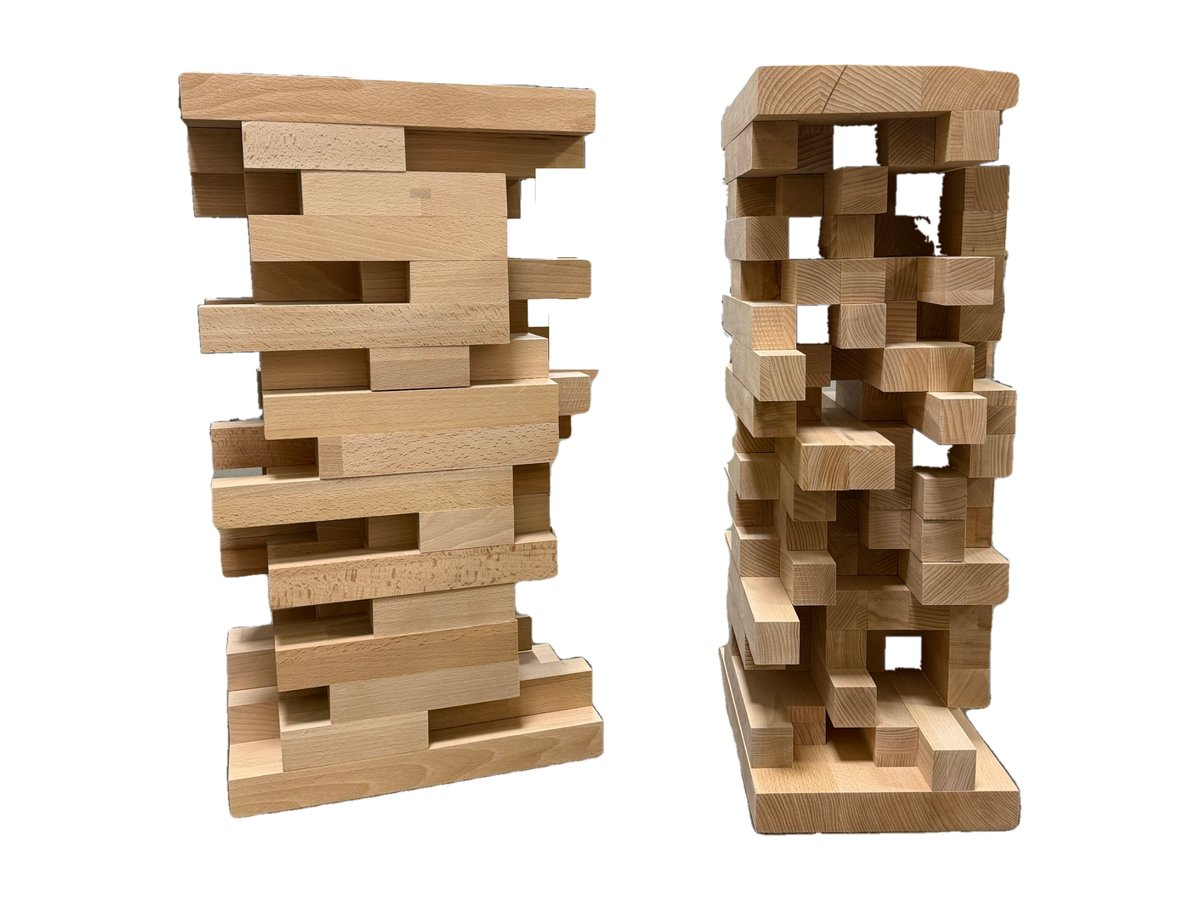
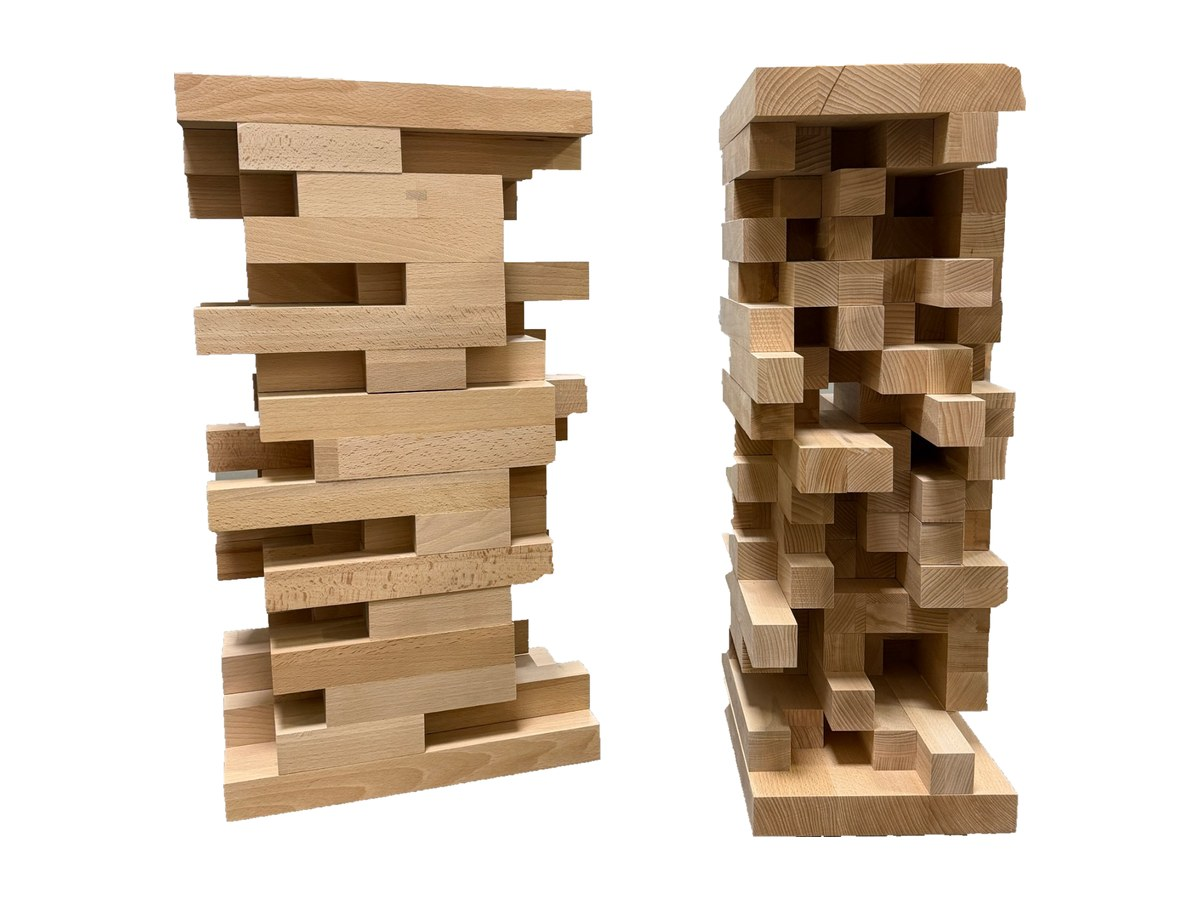
Stand Stile Pannello: anteprima scontornata di nuovo, contorni netti
Claude-Session: https://claude.ai/code/session_015wvKsictn1Z6RtpeGcB9hV

diff --git a/index.html b/index.html
@@ -178,7 +178,7 @@
       <span class="more">Scopri Tangerine</span></div>
     </a>
     <a class="card" href="stand-stile-pannello.html">
-      <div class="pic"><img src="images/stile-pannello-card.jpg" alt="Stand per diffusori Stile Pannello in Faggio massello visto di fronte, con i listelli sporgenti" loading="lazy" width="1200" height="900"></div>
+      <div class="pic"><img src="images/stile-pannello-card.jpg?v=2" alt="Stand per diffusori Stile Pannello in Faggio massello visto di fronte, con i listelli sporgenti" loading="lazy" width="1200" height="900"></div>
       <div class="txt">
       <h3>Stand per diffusori Stile Pannello</h3>
       <p>In Faggio massello, con listelli sporgenti come un pannello acustico: correggono il suono su due lati.</p>

diff --git a/stand-per-diffusori.html b/stand-per-diffusori.html
@@ -71,7 +71,7 @@
       <span class="more">Scopri il Line</span></div>
     </a>
     <a class="card" href="stand-stile-pannello.html">
-      <div class="pic"><img src="images/stile-pannello-card.jpg" alt="Stand per diffusori Stile Pannello in Faggio massello visto di fronte, con i listelli sporgenti" loading="lazy" width="1200" height="900"></div>
+      <div class="pic"><img src="images/stile-pannello-card.jpg?v=2" alt="Stand per diffusori Stile Pannello in Faggio massello visto di fronte, con i listelli sporgenti" loading="lazy" width="1200" height="900"></div>
       <div class="txt">
       <h3>Stand per diffusori Stile Pannello</h3>
       <p>In Faggio massello, con listelli sporgenti come un pannello acustico: correggono il suono su due lati.</p>

diff --git a/en/speaker-stands.html b/en/speaker-stands.html
@@ -71,7 +71,7 @@
       <span class="more">Discover the Line</span></div>
     </a>
     <a class="card" href="speaker-stand-stile-pannello.html">
-      <div class="pic"><img src="../images/stile-pannello-card.jpg" alt="Stile Pannello speaker stand in solid Beech seen from the front, with its protruding slats" loading="lazy" width="1200" height="900"></div>
+      <div class="pic"><img src="../images/stile-pannello-card.jpg?v=2" alt="Stile Pannello speaker stand in solid Beech seen from the front, with its protruding slats" loading="lazy" width="1200" height="900"></div>
       <div class="txt">
       <h3>Stile Pannello speaker stands</h3>
       <p>In solid Beech, with protruding slats like an acoustic panel: they correct the sound on two sides.</p>

diff --git a/en/index.html b/en/index.html
@@ -178,7 +178,7 @@
       <span class="more">See Tangerine</span></div>
     </a>
     <a class="card" href="speaker-stand-stile-pannello.html">
-      <div class="pic"><img src="../images/stile-pannello-card.jpg" alt="Stile Pannello speaker stand in solid Beech seen from the front, with its protruding slats" loading="lazy" width="1200" height="900"></div>
+      <div class="pic"><img src="../images/stile-pannello-card.jpg?v=2" alt="Stile Pannello speaker stand in solid Beech seen from the front, with its protruding slats" loading="lazy" width="1200" height="900"></div>
       <div class="txt">
       <h3>Stile Pannello speaker stands</h3>
       <p>In solid Beech, with protruding slats like an acoustic panel: they correct the sound on two sides.</p>
